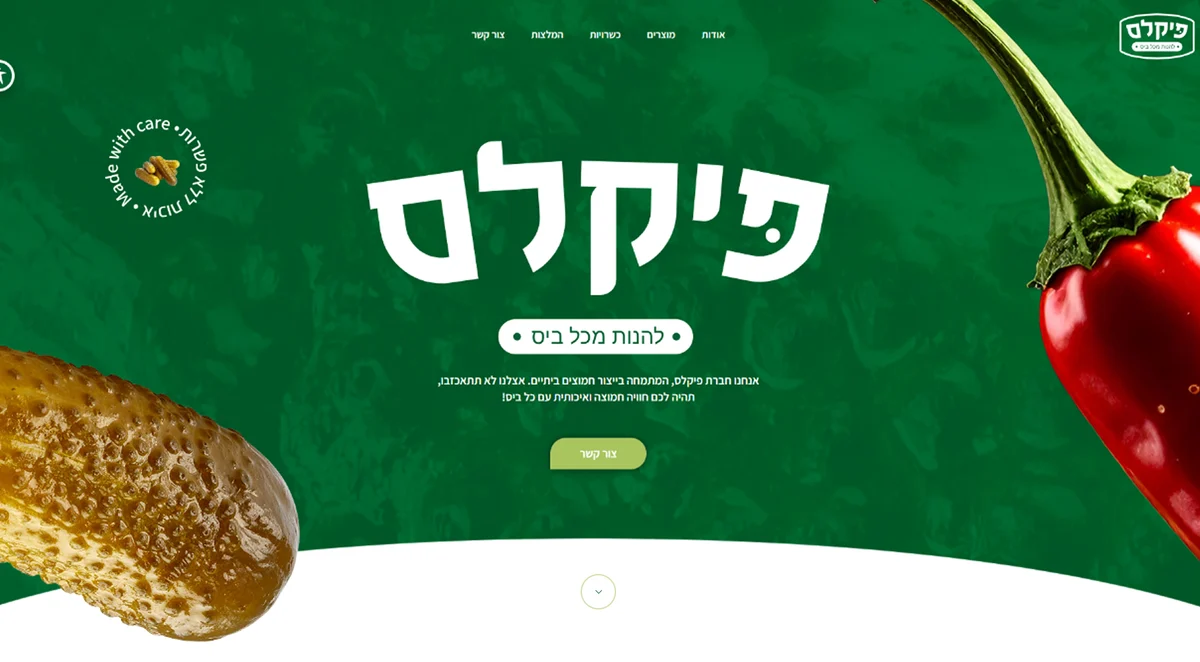
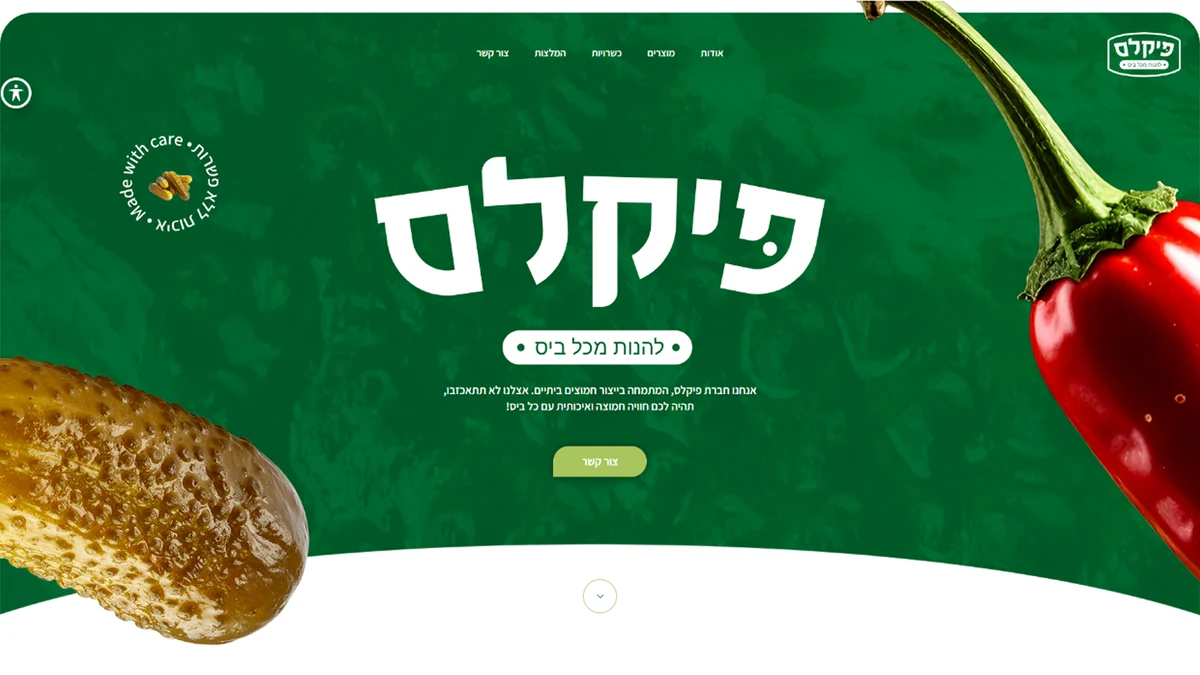
Pickles screenshot: show the full image (no cropping), 16:9
Claude-Session: https://claude.ai/code/session_01NTP9niN9fkNMbJSChYRcYE

diff --git a/work.html b/work.html
@@ -144,7 +144,7 @@
           <div class="project__media">
             <a class="browser" href="https://sourpckls.com/" target="_blank" rel="noopener" aria-label="פיקלס – פתיחת האתר">
               <span class="browser__bar"><i></i><i></i><i></i><b></b><b></b><b></b></span>
-              <span class="browser__screen"><img src="assets/img/gallery/pickles.webp" alt="צילום מסך – אתר פיקלס" width="1200" height="662" loading="lazy"></span>
+              <span class="browser__screen"><img src="assets/img/gallery/pickles.webp" alt="צילום מסך – אתר פיקלס" width="1200" height="675" loading="lazy"></span>
             </a>
             <a class="project__url" href="https://sourpckls.com/" target="_blank" rel="noopener"><span class="link-ico"><svg viewBox="0 0 24 24" aria-hidden="true"><path d="M10 14a4.5 4.5 0 0 0 6.4 0l3.2-3.2a4.5 4.5 0 0 0-6.4-6.4l-1.1 1.1M14 10a4.5 4.5 0 0 0-6.4 0l-3.2 3.2a4.5 4.5 0 0 0 6.4 6.4l1.1-1.1"/></svg></span>sourpckls.com</a>
           </div>
@@ -352,7 +352,7 @@
   </footer>
 
   <script src="assets/js/lenis.min.js" defer></script>
-  <script src="assets/js/main.js?v=142" defer></script>
+  <script src="assets/js/main.js?v=143" defer></script>
 <a class="wa-float" href="https://wa.me/972548481638?text=%D7%94%D7%99%D7%99%20%D7%99%D7%90%D7%9E%D7%99%2C%20%D7%94%D7%92%D7%A2%D7%AA%D7%99%20%D7%93%D7%A8%D7%9A%20%D7%94%D7%90%D7%AA%D7%A8." target="_blank" rel="noopener" aria-label="שלחו לי הודעה בוואטסאפ"><svg viewBox="0 0 32 32" aria-hidden="true"><path d="M16 3.2A12.7 12.7 0 0 0 5 22.3L3.3 28.7l6.6-1.7A12.7 12.7 0 1 0 16 3.2Z" fill="none" stroke="#fff" stroke-width="1.8" stroke-linejoin="round"/><path fill="#fff" d="M11.6 9.8c.4-.4 1.2-.4 1.5.1l1.3 2.5c.2.4.1.9-.2 1.2l-.8.8c.9 1.8 2.4 3.3 4.2 4.2l.8-.8c.3-.3.8-.4 1.2-.2l2.5 1.3c.5.3.5 1.1.1 1.5l-.9 1c-.8.8-2 1-3 .6-3.6-1.4-6.4-4.2-7.8-7.8-.4-1-.2-2.2.6-3Z"/></svg></a>
 </body>
 </html>

diff --git a/index.html b/index.html
@@ -183,7 +183,7 @@
           <span class="gcard__shot"><img src="assets/img/gallery/miriam-israeli.webp" alt="צילום מסך – מרים ישראלי" width="1200" height="662" loading="lazy"></span>
         </a>
         <a class="gcard gcard--3" href="work.html">
-          <span class="gcard__shot"><img src="assets/img/gallery/pickles.webp" alt="צילום מסך – פיקלס" width="1200" height="662" loading="lazy"></span>
+          <span class="gcard__shot"><img src="assets/img/gallery/pickles.webp" alt="צילום מסך – פיקלס" width="1200" height="675" loading="lazy"></span>
         </a>
         <a class="gcard gcard--4" href="work.html">
           <span class="gcard__shot"><img src="assets/img/gallery/ngm.webp" alt="צילום מסך – NGM – Next Generation Metals" width="1200" height="662" loading="lazy"></span>
@@ -337,7 +337,7 @@
   </footer>
 
   <script src="assets/js/lenis.min.js" defer></script>
-  <script src="assets/js/main.js?v=142" defer></script>
+  <script src="assets/js/main.js?v=143" defer></script>
 <a class="wa-float" href="https://wa.me/972548481638?text=%D7%94%D7%99%D7%99%20%D7%99%D7%90%D7%9E%D7%99%2C%20%D7%94%D7%92%D7%A2%D7%AA%D7%99%20%D7%93%D7%A8%D7%9A%20%D7%94%D7%90%D7%AA%D7%A8." target="_blank" rel="noopener" aria-label="שלחו לי הודעה בוואטסאפ"><svg viewBox="0 0 32 32" aria-hidden="true"><path d="M16 3.2A12.7 12.7 0 0 0 5 22.3L3.3 28.7l6.6-1.7A12.7 12.7 0 1 0 16 3.2Z" fill="none" stroke="#fff" stroke-width="1.8" stroke-linejoin="round"/><path fill="#fff" d="M11.6 9.8c.4-.4 1.2-.4 1.5.1l1.3 2.5c.2.4.1.9-.2 1.2l-.8.8c.9 1.8 2.4 3.3 4.2 4.2l.8-.8c.3-.3.8-.4 1.2-.2l2.5 1.3c.5.3.5 1.1.1 1.5l-.9 1c-.8.8-2 1-3 .6-3.6-1.4-6.4-4.2-7.8-7.8-.4-1-.2-2.2.6-3Z"/></svg></a>
 </body>
 </html>

diff --git a/accessibility.html b/accessibility.html
@@ -103,7 +103,7 @@
   </footer>
 
   <script src="assets/js/lenis.min.js" defer></script>
-  <script src="assets/js/main.js?v=142" defer></script>
+  <script src="assets/js/main.js?v=143" defer></script>
 <a class="wa-float" href="https://wa.me/972548481638?text=%D7%94%D7%99%D7%99%20%D7%99%D7%90%D7%9E%D7%99%2C%20%D7%94%D7%92%D7%A2%D7%AA%D7%99%20%D7%93%D7%A8%D7%9A%20%D7%94%D7%90%D7%AA%D7%A8." target="_blank" rel="noopener" aria-label="שלחו לי הודעה בוואטסאפ"><svg viewBox="0 0 32 32" aria-hidden="true"><path d="M16 3.2A12.7 12.7 0 0 0 5 22.3L3.3 28.7l6.6-1.7A12.7 12.7 0 1 0 16 3.2Z" fill="none" stroke="#fff" stroke-width="1.8" stroke-linejoin="round"/><path fill="#fff" d="M11.6 9.8c.4-.4 1.2-.4 1.5.1l1.3 2.5c.2.4.1.9-.2 1.2l-.8.8c.9 1.8 2.4 3.3 4.2 4.2l.8-.8c.3-.3.8-.4 1.2-.2l2.5 1.3c.5.3.5 1.1.1 1.5l-.9 1c-.8.8-2 1-3 .6-3.6-1.4-6.4-4.2-7.8-7.8-.4-1-.2-2.2.6-3Z"/></svg></a>
 </body>
 </html>

diff --git a/blog-8847.html b/blog-8847.html
@@ -236,7 +236,7 @@
   </footer>
 
   <script src="assets/js/lenis.min.js" defer></script>
-  <script src="assets/js/main.js?v=142" defer></script>
+  <script src="assets/js/main.js?v=143" defer></script>
 <a class="wa-float" href="https://wa.me/972548481638?text=%D7%94%D7%99%D7%99%20%D7%99%D7%90%D7%9E%D7%99%2C%20%D7%94%D7%92%D7%A2%D7%AA%D7%99%20%D7%93%D7%A8%D7%9A%20%D7%94%D7%90%D7%AA%D7%A8." target="_blank" rel="noopener" aria-label="שלחו לי הודעה בוואטסאפ"><svg viewBox="0 0 32 32" aria-hidden="true"><path d="M16 3.2A12.7 12.7 0 0 0 5 22.3L3.3 28.7l6.6-1.7A12.7 12.7 0 1 0 16 3.2Z" fill="none" stroke="#fff" stroke-width="1.8" stroke-linejoin="round"/><path fill="#fff" d="M11.6 9.8c.4-.4 1.2-.4 1.5.1l1.3 2.5c.2.4.1.9-.2 1.2l-.8.8c.9 1.8 2.4 3.3 4.2 4.2l.8-.8c.3-.3.8-.4 1.2-.2l2.5 1.3c.5.3.5 1.1.1 1.5l-.9 1c-.8.8-2 1-3 .6-3.6-1.4-6.4-4.2-7.8-7.8-.4-1-.2-2.2.6-3Z"/></svg></a>
 </body>
 </html>

diff --git a/blog-8956.html b/blog-8956.html
@@ -218,7 +218,7 @@
   </footer>
 
   <script src="assets/js/lenis.min.js" defer></script>
-  <script src="assets/js/main.js?v=142" defer></script>
+  <script src="assets/js/main.js?v=143" defer></script>
 <a class="wa-float" href="https://wa.me/972548481638?text=%D7%94%D7%99%D7%99%20%D7%99%D7%90%D7%9E%D7%99%2C%20%D7%94%D7%92%D7%A2%D7%AA%D7%99%20%D7%93%D7%A8%D7%9A%20%D7%94%D7%90%D7%AA%D7%A8." target="_blank" rel="noopener" aria-label="שלחו לי הודעה בוואטסאפ"><svg viewBox="0 0 32 32" aria-hidden="true"><path d="M16 3.2A12.7 12.7 0 0 0 5 22.3L3.3 28.7l6.6-1.7A12.7 12.7 0 1 0 16 3.2Z" fill="none" stroke="#fff" stroke-width="1.8" stroke-linejoin="round"/><path fill="#fff" d="M11.6 9.8c.4-.4 1.2-.4 1.5.1l1.3 2.5c.2.4.1.9-.2 1.2l-.8.8c.9 1.8 2.4 3.3 4.2 4.2l.8-.8c.3-.3.8-.4 1.2-.2l2.5 1.3c.5.3.5 1.1.1 1.5l-.9 1c-.8.8-2 1-3 .6-3.6-1.4-6.4-4.2-7.8-7.8-.4-1-.2-2.2.6-3Z"/></svg></a>
 </body>
 </html>

diff --git a/blog-9025.html b/blog-9025.html
@@ -226,7 +226,7 @@
   </footer>
 
   <script src="assets/js/lenis.min.js" defer></script>
-  <script src="assets/js/main.js?v=142" defer></script>
+  <script src="assets/js/main.js?v=143" defer></script>
 <a class="wa-float" href="https://wa.me/972548481638?text=%D7%94%D7%99%D7%99%20%D7%99%D7%90%D7%9E%D7%99%2C%20%D7%94%D7%92%D7%A2%D7%AA%D7%99%20%D7%93%D7%A8%D7%9A%20%D7%94%D7%90%D7%AA%D7%A8." target="_blank" rel="noopener" aria-label="שלחו לי הודעה בוואטסאפ"><svg viewBox="0 0 32 32" aria-hidden="true"><path d="M16 3.2A12.7 12.7 0 0 0 5 22.3L3.3 28.7l6.6-1.7A12.7 12.7 0 1 0 16 3.2Z" fill="none" stroke="#fff" stroke-width="1.8" stroke-linejoin="round"/><path fill="#fff" d="M11.6 9.8c.4-.4 1.2-.4 1.5.1l1.3 2.5c.2.4.1.9-.2 1.2l-.8.8c.9 1.8 2.4 3.3 4.2 4.2l.8-.8c.3-.3.8-.4 1.2-.2l2.5 1.3c.5.3.5 1.1.1 1.5l-.9 1c-.8.8-2 1-3 .6-3.6-1.4-6.4-4.2-7.8-7.8-.4-1-.2-2.2.6-3Z"/></svg></a>
 </body>
 </html>

diff --git a/blog-9063.html b/blog-9063.html
@@ -217,7 +217,7 @@
   </footer>
 
   <script src="assets/js/lenis.min.js" defer></script>
-  <script src="assets/js/main.js?v=142" defer></script>
+  <script src="assets/js/main.js?v=143" defer></script>
 <a class="wa-float" href="https://wa.me/972548481638?text=%D7%94%D7%99%D7%99%20%D7%99%D7%90%D7%9E%D7%99%2C%20%D7%94%D7%92%D7%A2%D7%AA%D7%99%20%D7%93%D7%A8%D7%9A%20%D7%94%D7%90%D7%AA%D7%A8." target="_blank" rel="noopener" aria-label="שלחו לי הודעה בוואטסאפ"><svg viewBox="0 0 32 32" aria-hidden="true"><path d="M16 3.2A12.7 12.7 0 0 0 5 22.3L3.3 28.7l6.6-1.7A12.7 12.7 0 1 0 16 3.2Z" fill="none" stroke="#fff" stroke-width="1.8" stroke-linejoin="round"/><path fill="#fff" d="M11.6 9.8c.4-.4 1.2-.4 1.5.1l1.3 2.5c.2.4.1.9-.2 1.2l-.8.8c.9 1.8 2.4 3.3 4.2 4.2l.8-.8c.3-.3.8-.4 1.2-.2l2.5 1.3c.5.3.5 1.1.1 1.5l-.9 1c-.8.8-2 1-3 .6-3.6-1.4-6.4-4.2-7.8-7.8-.4-1-.2-2.2.6-3Z"/></svg></a>
 </body>
 </html>

diff --git a/blog-9128.html b/blog-9128.html
@@ -225,7 +225,7 @@
   </footer>
 
   <script src="assets/js/lenis.min.js" defer></script>
-  <script src="assets/js/main.js?v=142" defer></script>
+  <script src="assets/js/main.js?v=143" defer></script>
 <a class="wa-float" href="https://wa.me/972548481638?text=%D7%94%D7%99%D7%99%20%D7%99%D7%90%D7%9E%D7%99%2C%20%D7%94%D7%92%D7%A2%D7%AA%D7%99%20%D7%93%D7%A8%D7%9A%20%D7%94%D7%90%D7%AA%D7%A8." target="_blank" rel="noopener" aria-label="שלחו לי הודעה בוואטסאפ"><svg viewBox="0 0 32 32" aria-hidden="true"><path d="M16 3.2A12.7 12.7 0 0 0 5 22.3L3.3 28.7l6.6-1.7A12.7 12.7 0 1 0 16 3.2Z" fill="none" stroke="#fff" stroke-width="1.8" stroke-linejoin="round"/><path fill="#fff" d="M11.6 9.8c.4-.4 1.2-.4 1.5.1l1.3 2.5c.2.4.1.9-.2 1.2l-.8.8c.9 1.8 2.4 3.3 4.2 4.2l.8-.8c.3-.3.8-.4 1.2-.2l2.5 1.3c.5.3.5 1.1.1 1.5l-.9 1c-.8.8-2 1-3 .6-3.6-1.4-6.4-4.2-7.8-7.8-.4-1-.2-2.2.6-3Z"/></svg></a>
 </body>
 </html>

diff --git a/blog-9199.html b/blog-9199.html
@@ -291,7 +291,7 @@
   </footer>
 
   <script src="assets/js/lenis.min.js" defer></script>
-  <script src="assets/js/main.js?v=142" defer></script>
+  <script src="assets/js/main.js?v=143" defer></script>
 <a class="wa-float" href="https://wa.me/972548481638?text=%D7%94%D7%99%D7%99%20%D7%99%D7%90%D7%9E%D7%99%2C%20%D7%94%D7%92%D7%A2%D7%AA%D7%99%20%D7%93%D7%A8%D7%9A%20%D7%94%D7%90%D7%AA%D7%A8." target="_blank" rel="noopener" aria-label="שלחו לי הודעה בוואטסאפ"><svg viewBox="0 0 32 32" aria-hidden="true"><path d="M16 3.2A12.7 12.7 0 0 0 5 22.3L3.3 28.7l6.6-1.7A12.7 12.7 0 1 0 16 3.2Z" fill="none" stroke="#fff" stroke-width="1.8" stroke-linejoin="round"/><path fill="#fff" d="M11.6 9.8c.4-.4 1.2-.4 1.5.1l1.3 2.5c.2.4.1.9-.2 1.2l-.8.8c.9 1.8 2.4 3.3 4.2 4.2l.8-.8c.3-.3.8-.4 1.2-.2l2.5 1.3c.5.3.5 1.1.1 1.5l-.9 1c-.8.8-2 1-3 .6-3.6-1.4-6.4-4.2-7.8-7.8-.4-1-.2-2.2.6-3Z"/></svg></a>
 </body>
 </html>

diff --git a/blog-9314.html b/blog-9314.html
@@ -203,7 +203,7 @@
   </footer>
 
   <script src="assets/js/lenis.min.js" defer></script>
-  <script src="assets/js/main.js?v=142" defer></script>
+  <script src="assets/js/main.js?v=143" defer></script>
 <a class="wa-float" href="https://wa.me/972548481638?text=%D7%94%D7%99%D7%99%20%D7%99%D7%90%D7%9E%D7%99%2C%20%D7%94%D7%92%D7%A2%D7%AA%D7%99%20%D7%93%D7%A8%D7%9A%20%D7%94%D7%90%D7%AA%D7%A8." target="_blank" rel="noopener" aria-label="שלחו לי הודעה בוואטסאפ"><svg viewBox="0 0 32 32" aria-hidden="true"><path d="M16 3.2A12.7 12.7 0 0 0 5 22.3L3.3 28.7l6.6-1.7A12.7 12.7 0 1 0 16 3.2Z" fill="none" stroke="#fff" stroke-width="1.8" stroke-linejoin="round"/><path fill="#fff" d="M11.6 9.8c.4-.4 1.2-.4 1.5.1l1.3 2.5c.2.4.1.9-.2 1.2l-.8.8c.9 1.8 2.4 3.3 4.2 4.2l.8-.8c.3-.3.8-.4 1.2-.2l2.5 1.3c.5.3.5 1.1.1 1.5l-.9 1c-.8.8-2 1-3 .6-3.6-1.4-6.4-4.2-7.8-7.8-.4-1-.2-2.2.6-3Z"/></svg></a>
 </body>
 </html>

diff --git a/blog-9830.html b/blog-9830.html
@@ -223,7 +223,7 @@
   </footer>
 
   <script src="assets/js/lenis.min.js" defer></script>
-  <script src="assets/js/main.js?v=142" defer></script>
+  <script src="assets/js/main.js?v=143" defer></script>
 <a class="wa-float" href="https://wa.me/972548481638?text=%D7%94%D7%99%D7%99%20%D7%99%D7%90%D7%9E%D7%99%2C%20%D7%94%D7%92%D7%A2%D7%AA%D7%99%20%D7%93%D7%A8%D7%9A%20%D7%94%D7%90%D7%AA%D7%A8." target="_blank" rel="noopener" aria-label="שלחו לי הודעה בוואטסאפ"><svg viewBox="0 0 32 32" aria-hidden="true"><path d="M16 3.2A12.7 12.7 0 0 0 5 22.3L3.3 28.7l6.6-1.7A12.7 12.7 0 1 0 16 3.2Z" fill="none" stroke="#fff" stroke-width="1.8" stroke-linejoin="round"/><path fill="#fff" d="M11.6 9.8c.4-.4 1.2-.4 1.5.1l1.3 2.5c.2.4.1.9-.2 1.2l-.8.8c.9 1.8 2.4 3.3 4.2 4.2l.8-.8c.3-.3.8-.4 1.2-.2l2.5 1.3c.5.3.5 1.1.1 1.5l-.9 1c-.8.8-2 1-3 .6-3.6-1.4-6.4-4.2-7.8-7.8-.4-1-.2-2.2.6-3Z"/></svg></a>
 </body>
 </html>

diff --git a/blog-9874.html b/blog-9874.html
@@ -210,7 +210,7 @@
   </footer>
 
   <script src="assets/js/lenis.min.js" defer></script>
-  <script src="assets/js/main.js?v=142" defer></script>
+  <script src="assets/js/main.js?v=143" defer></script>
 <a class="wa-float" href="https://wa.me/972548481638?text=%D7%94%D7%99%D7%99%20%D7%99%D7%90%D7%9E%D7%99%2C%20%D7%94%D7%92%D7%A2%D7%AA%D7%99%20%D7%93%D7%A8%D7%9A%20%D7%94%D7%90%D7%AA%D7%A8." target="_blank" rel="noopener" aria-label="שלחו לי הודעה בוואטסאפ"><svg viewBox="0 0 32 32" aria-hidden="true"><path d="M16 3.2A12.7 12.7 0 0 0 5 22.3L3.3 28.7l6.6-1.7A12.7 12.7 0 1 0 16 3.2Z" fill="none" stroke="#fff" stroke-width="1.8" stroke-linejoin="round"/><path fill="#fff" d="M11.6 9.8c.4-.4 1.2-.4 1.5.1l1.3 2.5c.2.4.1.9-.2 1.2l-.8.8c.9 1.8 2.4 3.3 4.2 4.2l.8-.8c.3-.3.8-.4 1.2-.2l2.5 1.3c.5.3.5 1.1.1 1.5l-.9 1c-.8.8-2 1-3 .6-3.6-1.4-6.4-4.2-7.8-7.8-.4-1-.2-2.2.6-3Z"/></svg></a>
 </body>
 </html>
